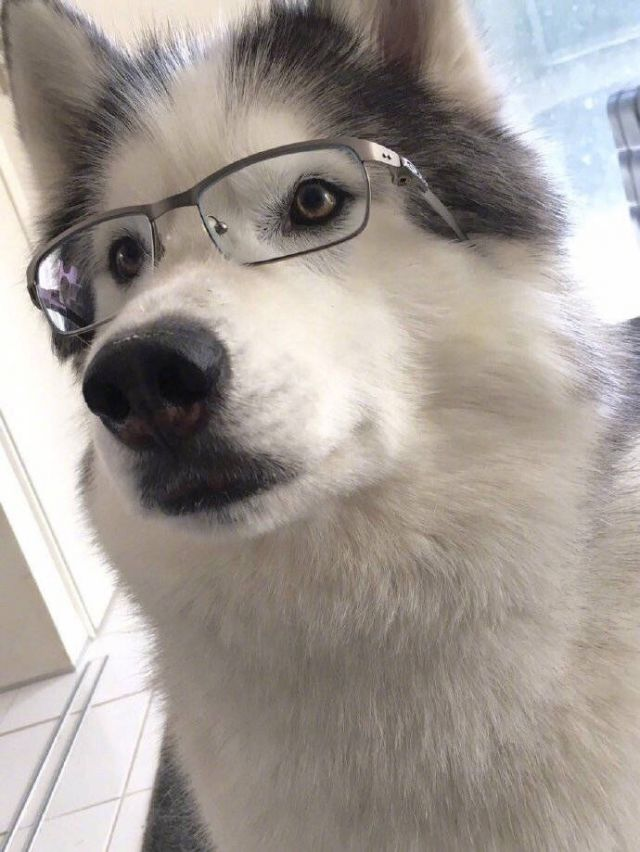
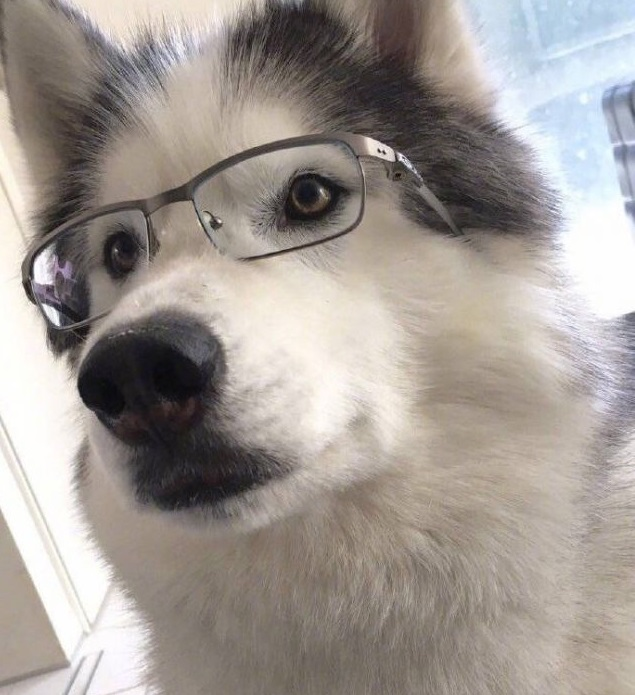
Site updated: 2019-07-18 13:52:59

diff --git a/index.html b/index.html
@@ -388,7 +388,7 @@ Mo...
             <!-- profile -->
             
             <div class="profile">
-    <img class="profile-avatar" alt="avatar" src= /\avatar\Misaka.jpg >
+    <img class="profile-avatar" alt="avatar" src= /\avatar\dog.jpg >
     <div class="profile-name">Fly</div>
     
     <div class="profile-signature">
